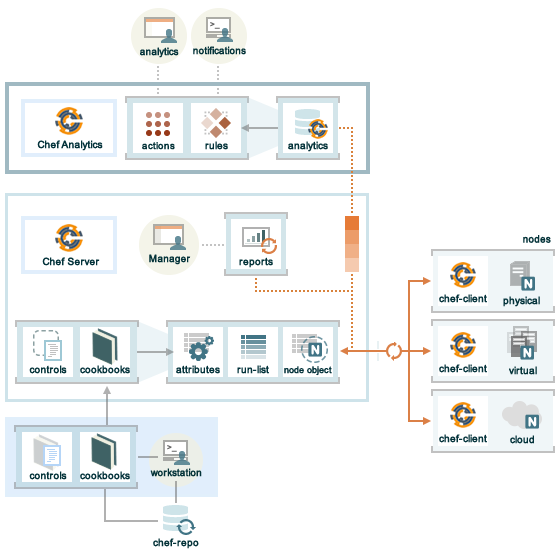
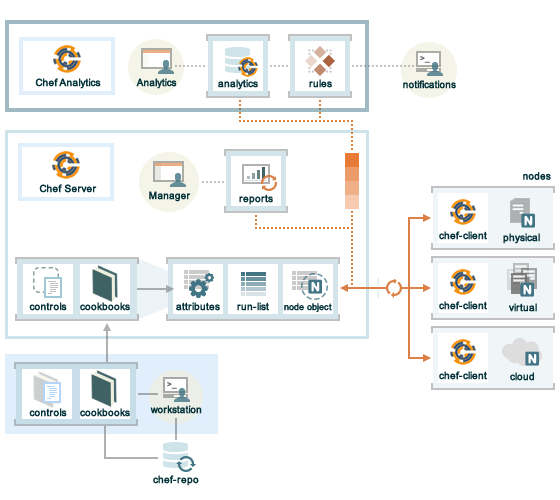
apply changes, hook in

Changed region(s): [[0.0, 0.03, 1.0, 0.99], [0.6982, 0.09, 0.8196, 0.18]]

diff --git a/chef_master/source/analytics.rst b/chef_master/source/analytics.rst
@@ -8,7 +8,7 @@
 =====================================================
 The following diagram shows the relationships between the various elements of |chef analytics|, including how information is routed from various nodes to the |chef analytics| server (through the |chef server|) nodes, where reports about |chef client| run outcomes may be viewed, where rules are processed, and where |chef analytics| data may be viewed.
 
-.. image:: ../../images/chef_analytics_alt.png
+.. image:: ../../images/chef_analytics.png
 
 .. list-table::
    :widths: 60 420
